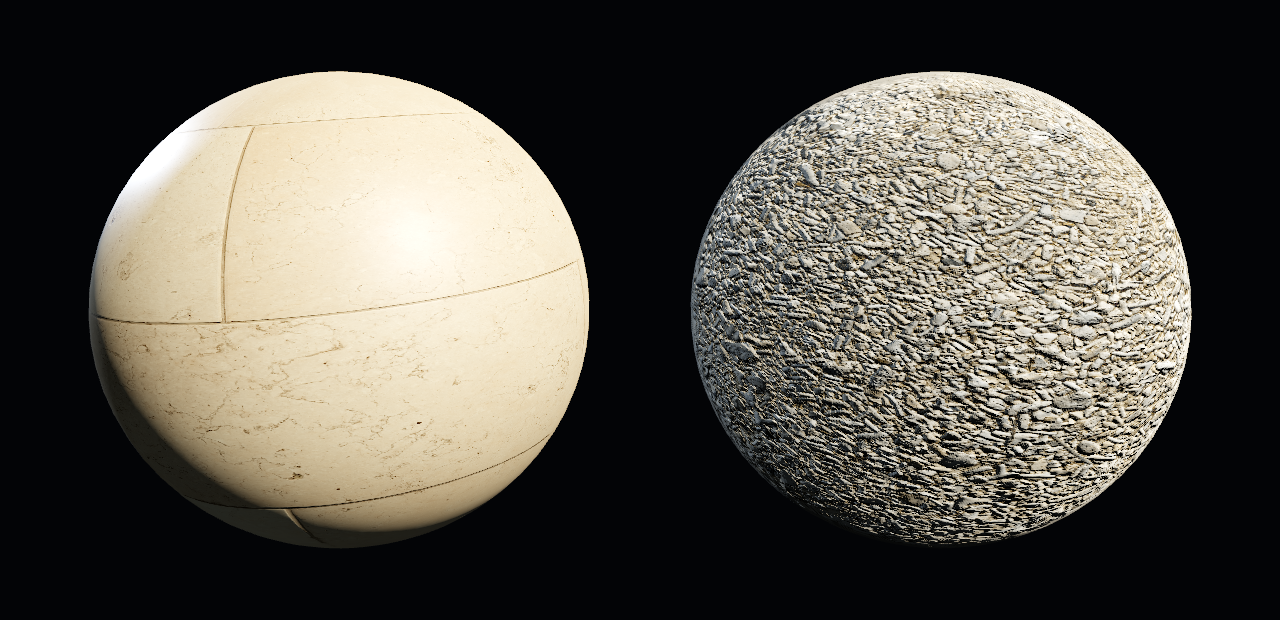
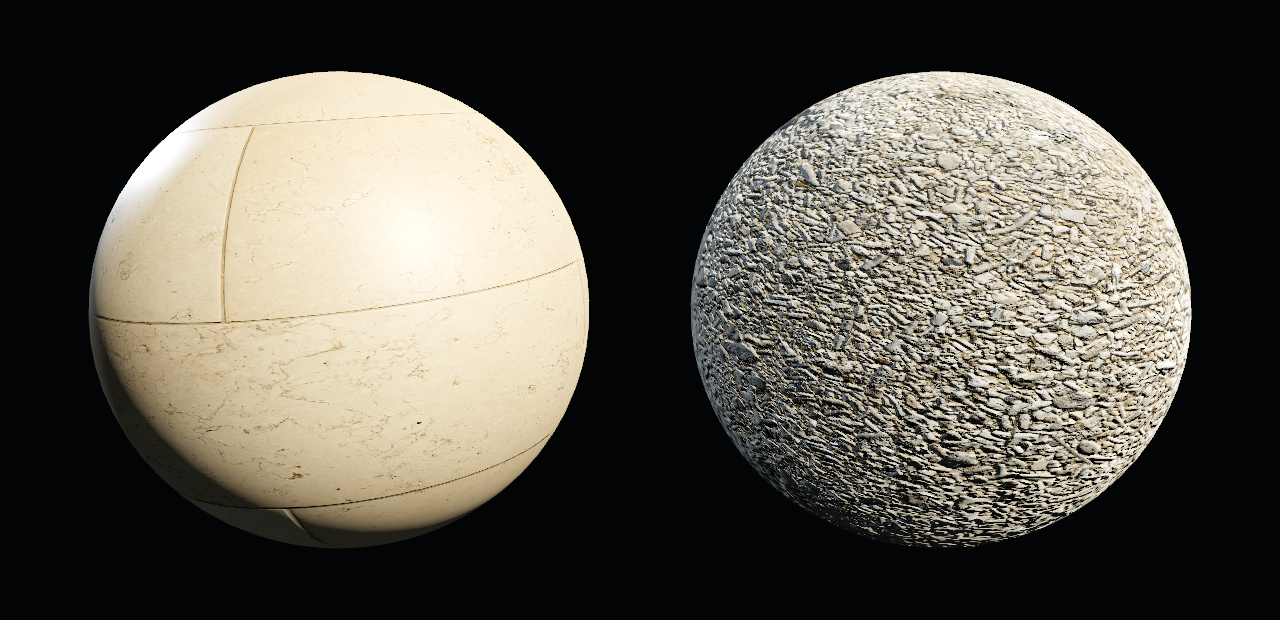
docs(preview): refresh Godot preview and split-comparison screenshots after Method B update

Changed region(s): [[0.5312, 0.1226, 0.9375, 0.8887]]

diff --git a/README.md b/README.md
@@ -9,7 +9,7 @@ Runtime loader and GPU fragment-shader decoder addon for **Voivent Neural Materi
 *Rendered directly in Godot `4.7.2-stable` (Forward+): Left = `Marble 01` (`standard` 4ch, `1.26 MB`), Right = `Coast Sand 03` (`quality8` 8ch, `10.01 MB`). Source textures: Poly Haven (CC0-1.0).*
 
 ![Playable 3D Scene Comparison — Original Reference PNG PBR vs VNM1 Direct GPU Shader](./docs/preview-godot-comparison.jpg)
-*Playable 3D mini-game split comparison (`1440×900`, Apple M4, Godot `4.7.2-stable` Metal 4.0 Forward+): Left = Original Reference PNG PBR (`78.89 MB`, `60 FPS`), Right = VNM1 Direct GPU Shader (`18.79 MB / 23.8%`, `60 FPS`) with latent mipmap LOD, smooth tail crossfade, and Burley diffuse. Materials: Poly Haven (`marble_01`, `coast_sand_03`) & ambientCG (`Fabric030`) (CC0-1.0). Note: the `5587ms` PNG startup load on the HUD reflects runtime `Image.load_from_file()` + GDScript pixel-by-pixel sRGB-to-linear LUT conversion for comparison, not editor-imported `.ctex` textures.*
+*Playable 3D mini-game split comparison (`1440×900`, Apple M4, Godot `4.7.2-stable` Metal 4.0 Forward+): Left = Original Reference PNG PBR (`78.89 MB`, `60 FPS`), Right = VNM1 Direct GPU Shader (`18.79 MB / 23.8%`, `60 FPS`) with latent mipmap LOD, anisotropic filtering, local phase damping, smooth tail crossfade, and Burley diffuse. Materials: Poly Haven (`marble_01`, `coast_sand_03`) & ambientCG (`Fabric030`) (CC0-1.0). Note: the `5651ms` PNG startup load on the HUD reflects runtime `Image.load_from_file()` + GDScript pixel-by-pixel sRGB-to-linear LUT conversion for comparison, not editor-imported `.ctex` textures.*
 
 ## Features
 
